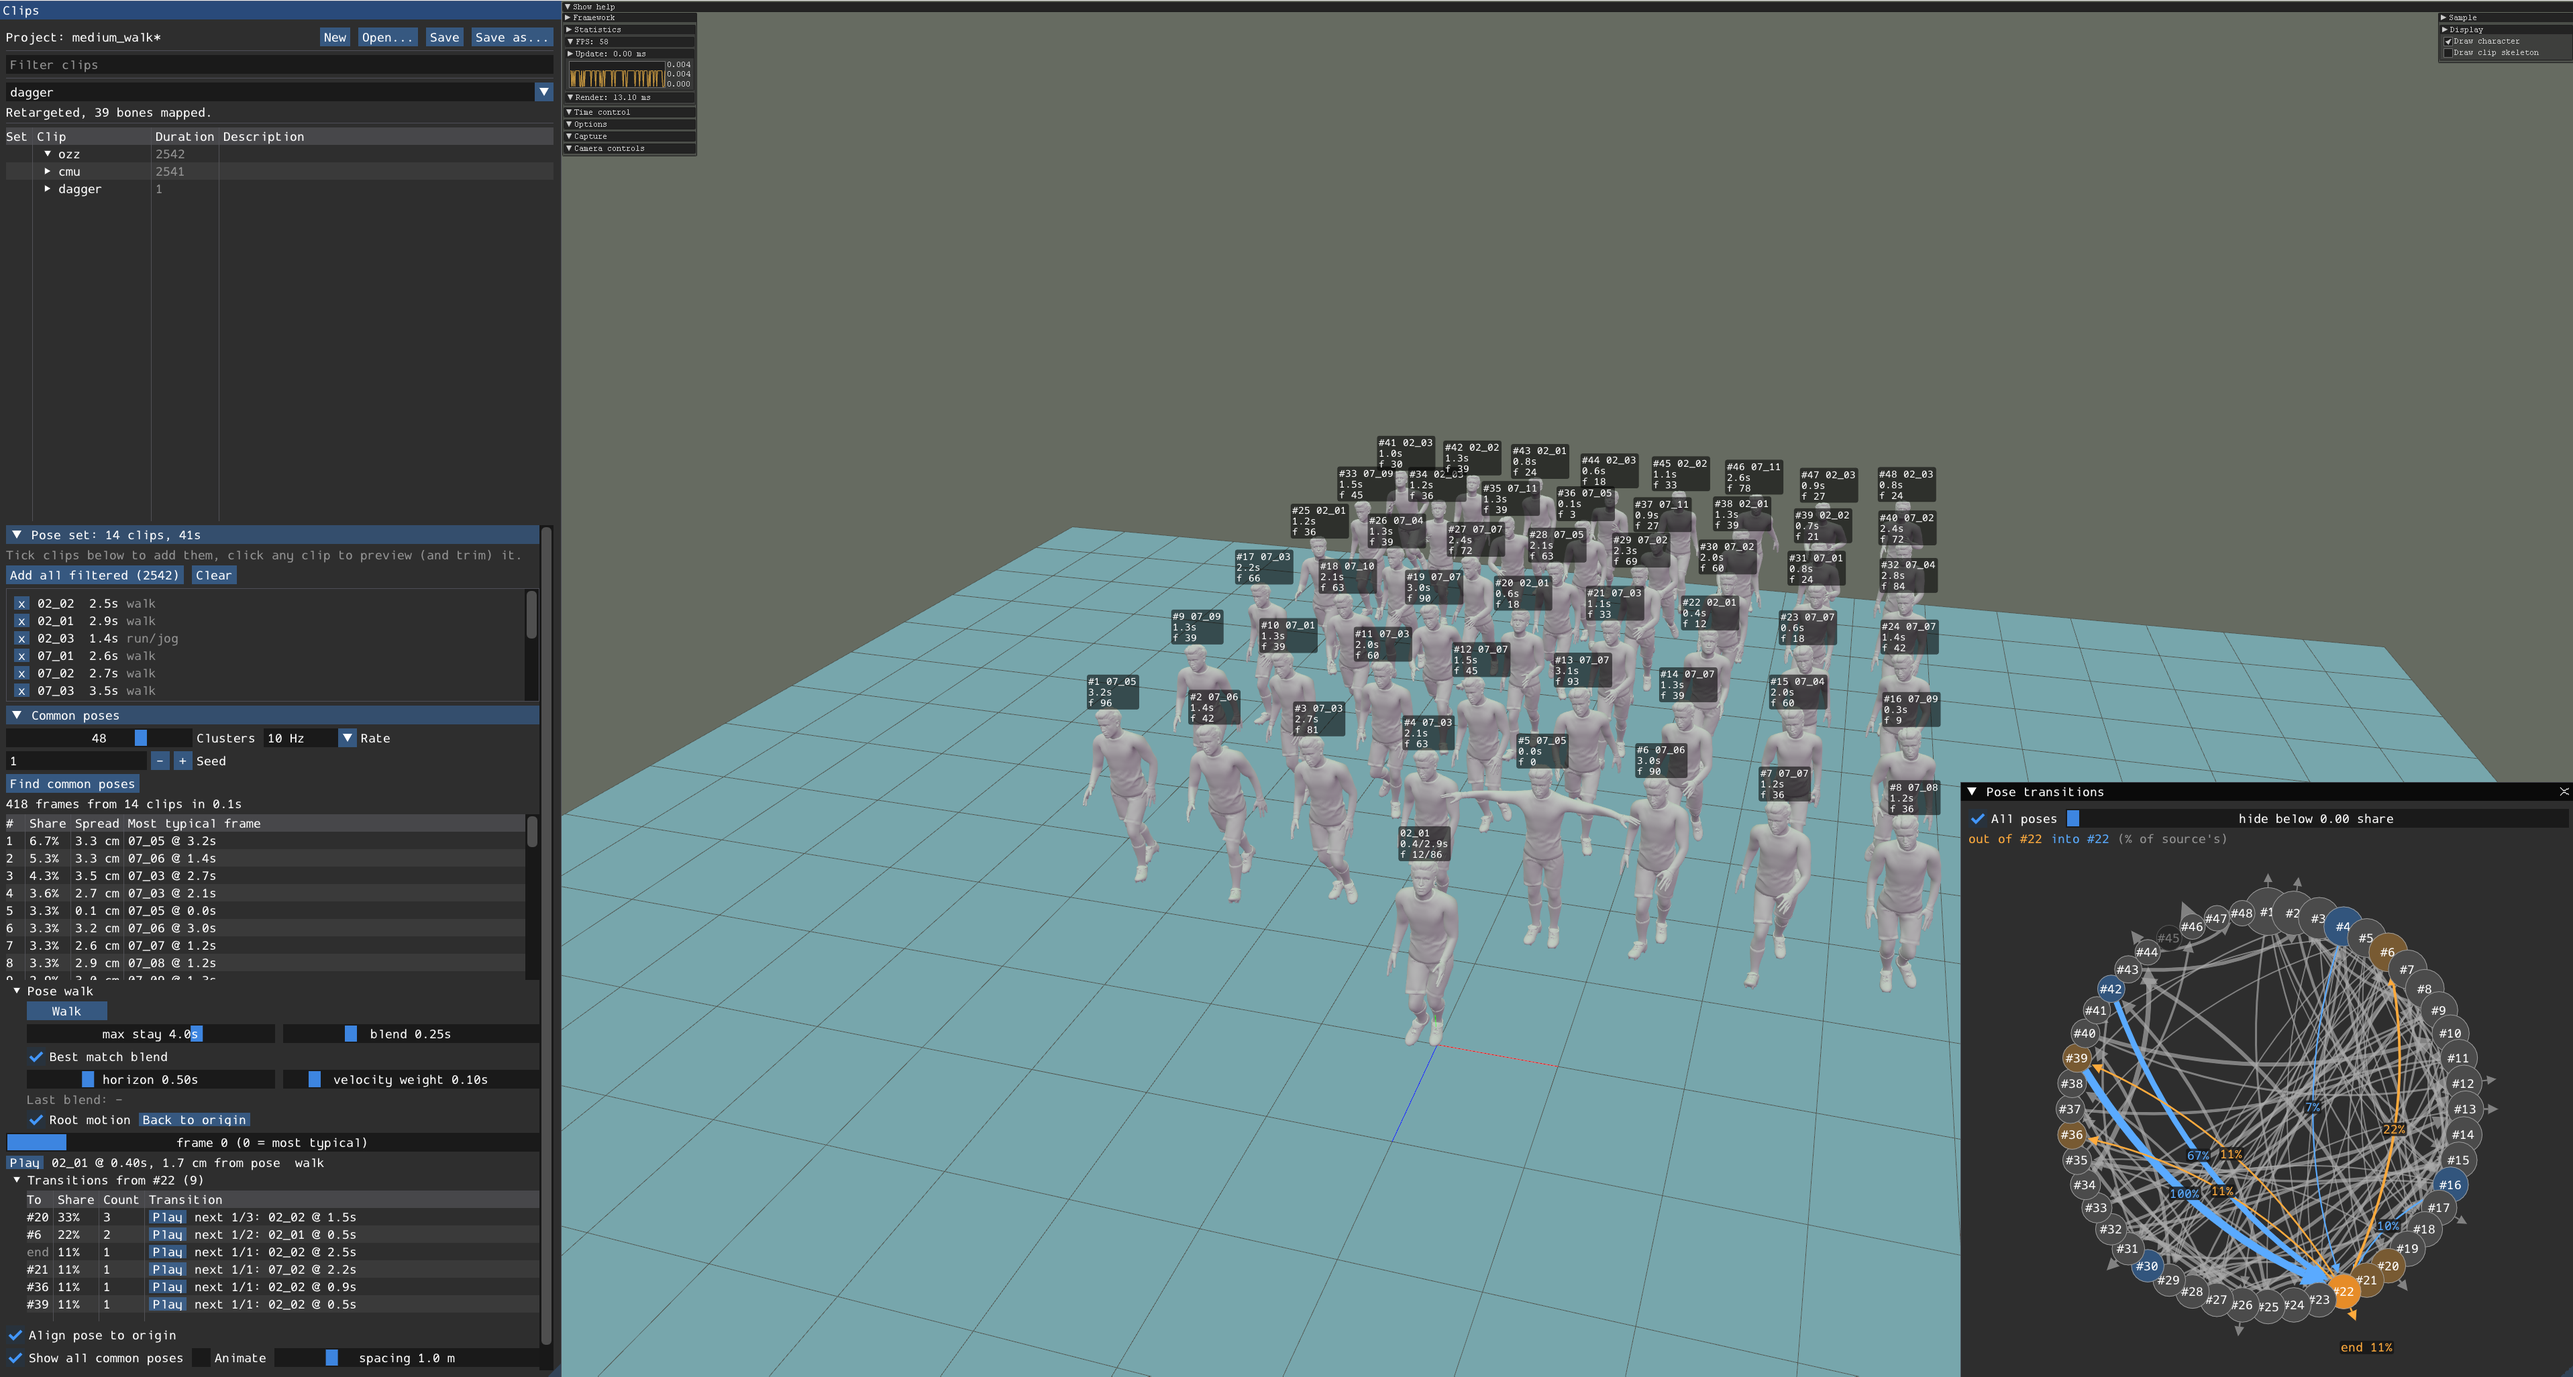
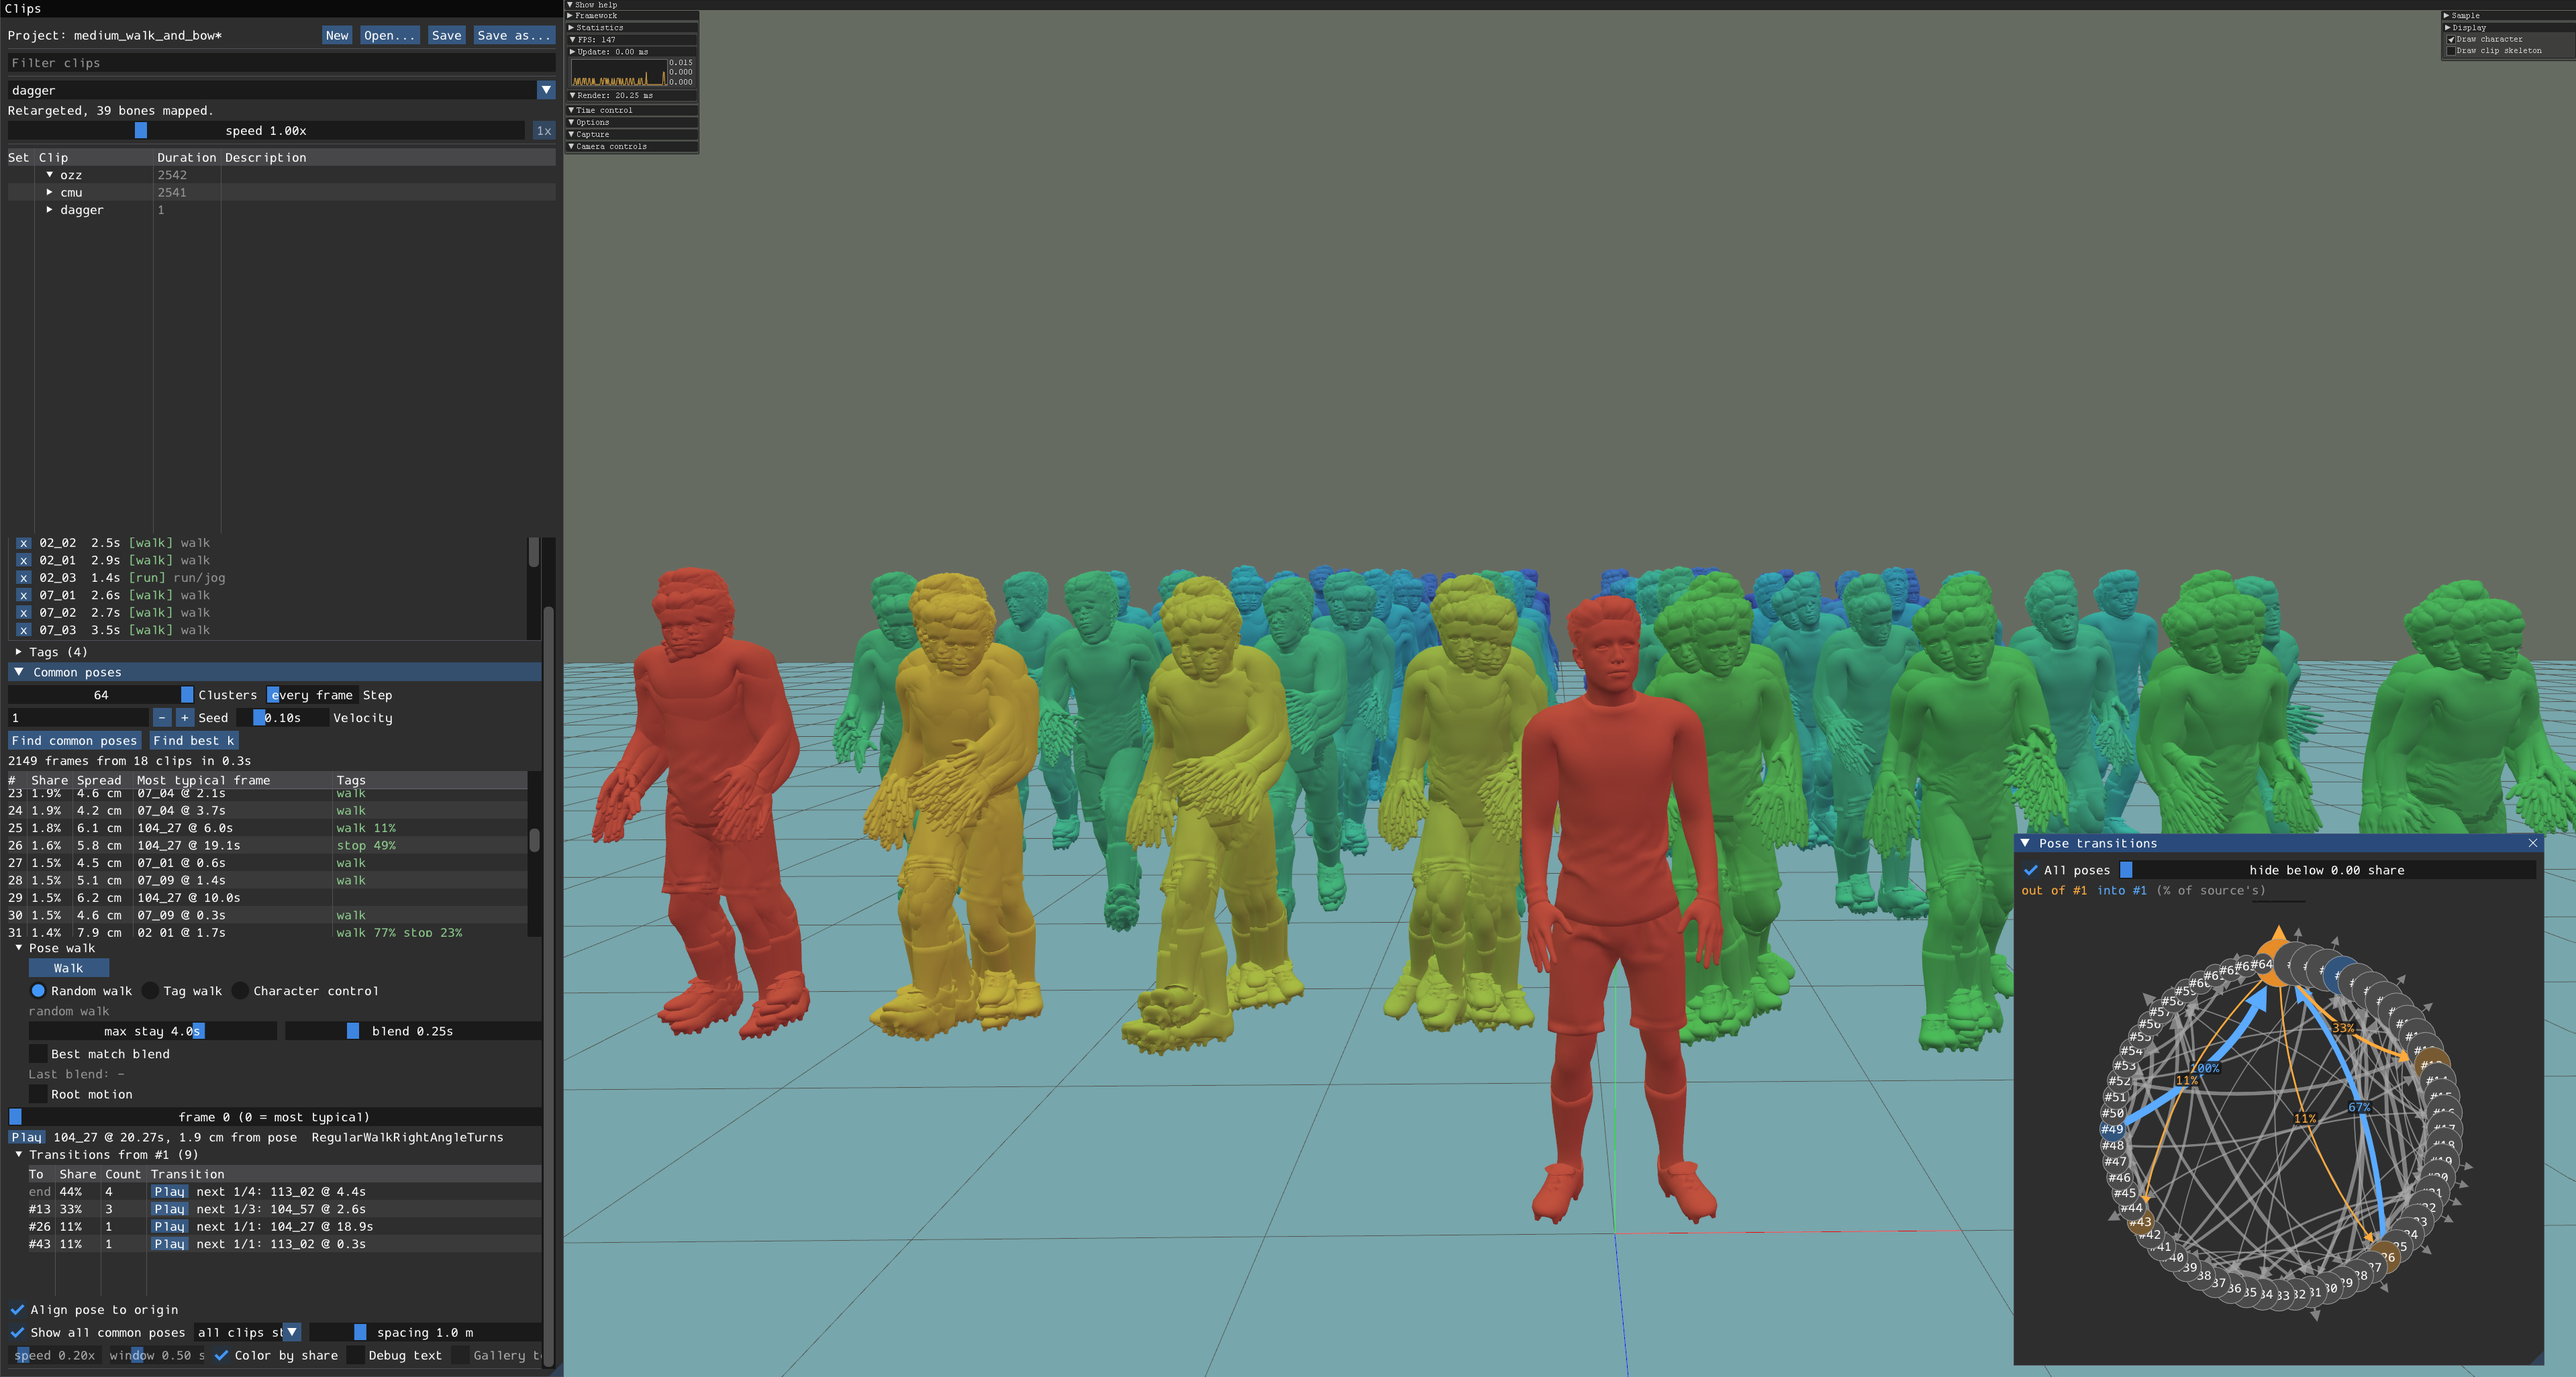
README: new screenshot

diff --git a/README.md b/README.md
@@ -9,7 +9,7 @@ capture clips and builds a transition graph between them. A character can then
 walk that graph, blending from clip to clip. See the
 [detailed description](docs/principal_poses_walk.md).
 
-![PrincipalPosesWalk: the pose set and common poses on the left, the gallery of all common poses behind the walking character, and the transition graph on the right](docs/images/principal_poses_walk.png)
+![PrincipalPosesWalk: the pose set and common poses on the left; the gallery of all common poses behind the character, each overlaying every clip that passes through it and colored by how common it is (red: most common, blue: least); the transition graph on the right](docs/images/principal_poses_walk.png)
 
 ## Apps
 
